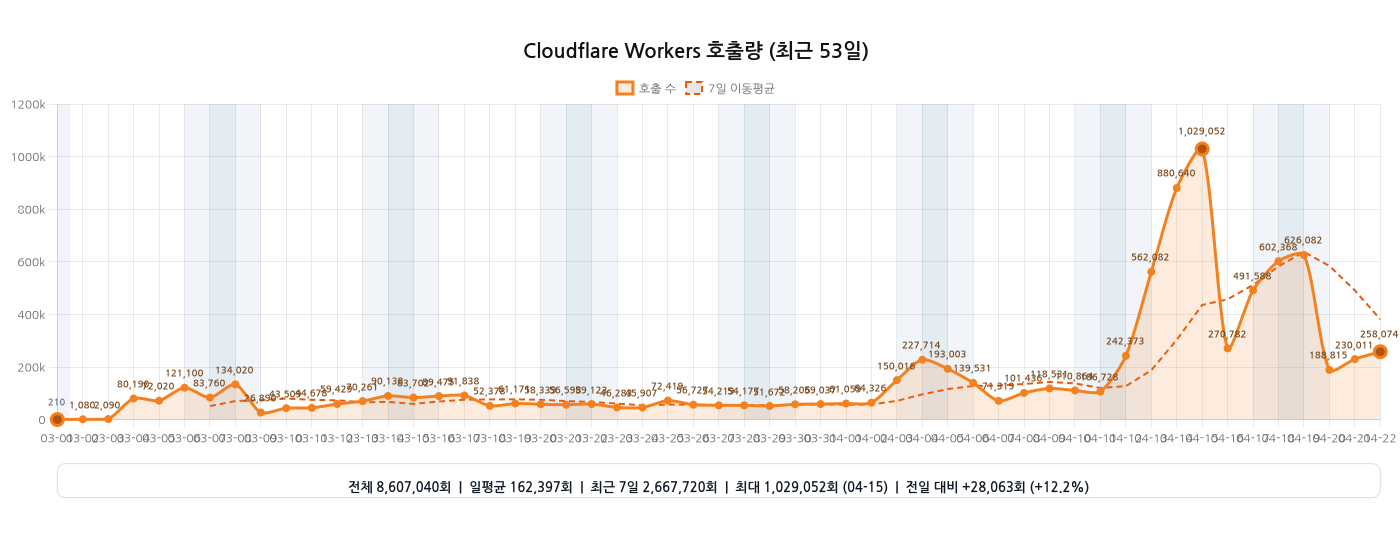
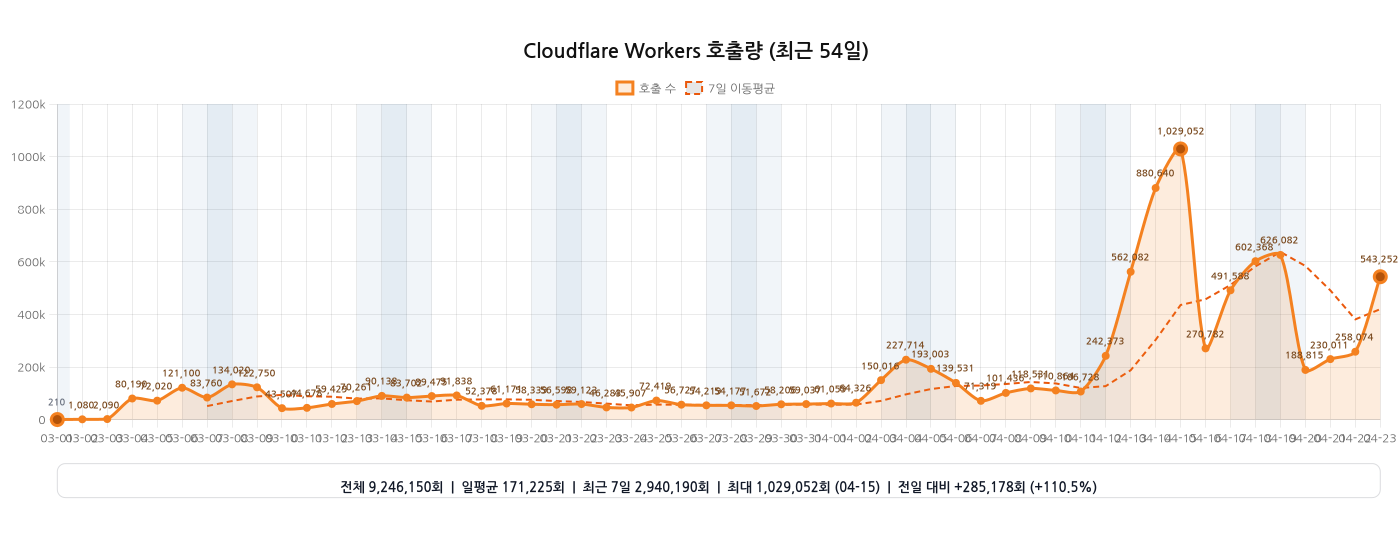
chore: 워커 호출량 그래프 자동 갱신

Changed region(s): [[0.0307, 0.2125, 1.0, 0.7893], [0.2457, 0.85, 0.7986, 0.8804]]

diff --git a/README.md b/README.md
@@ -18,11 +18,11 @@
 [![Coverage](https://github.com/hmmhmmhm/daiso-mcp/actions/workflows/coverage.yml/badge.svg?branch=main)](https://github.com/hmmhmmhm/daiso-mcp/actions/workflows/coverage.yml)
 
 <!-- WORKERS_INVOCATIONS_CHART:START -->
-<h3>Cloudflare Workers 호출량 (2026-03-01 ~ 2026-04-22, 53일)</h3>
+<h3>Cloudflare Workers 호출량 (2026-03-01 ~ 2026-04-23, 54일)</h3>
 
-<img src="./assets/analytics/workers-invocations.png?v=2026-04-22T15:57:54.359Z" alt="Cloudflare Workers 호출량 그래프 (2026-03-01 ~ 2026-04-22)" width="100%">
+<img src="./assets/analytics/workers-invocations.png?v=2026-04-23T16:02:27.803Z" alt="Cloudflare Workers 호출량 그래프 (2026-03-01 ~ 2026-04-23)" width="100%">
 
-<sub>기준 워커: <code>daiso-mcp</code> · 마지막 갱신: 2026-04-23 00:57 KST</sub>
+<sub>기준 워커: <code>daiso-mcp</code> · 마지막 갱신: 2026-04-24 01:02 KST</sub>
 
 <!-- WORKERS_INVOCATIONS_CHART:END -->
 
